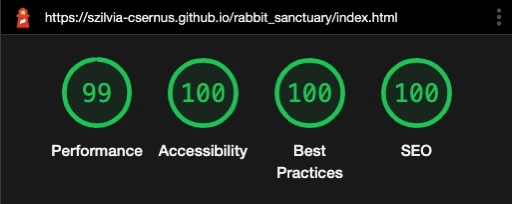
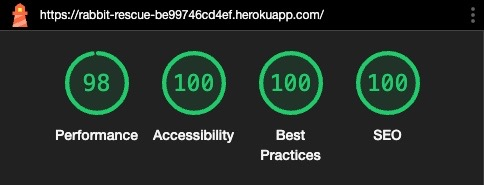
update lighthouse scores

diff --git a/TESTING.md b/TESTING.md
@@ -11,7 +11,6 @@
 I wrote 16 unit tests for testing the django `models`, `serializers` and `views`. For the testing environment, I created a separate settings file: `settings_test.py`.
 
 > To run the test in the development environment, run:
-
 > `python manage.py test --settings=rabbit_rescue_REST.settings_test`
 
 Results:
@@ -20,7 +19,7 @@ Results:
 
 ## Unit tests for the React Project
 
-I used `Vitest (Jest)` to run unit and functional test for the React Components. HTTP requests were mocked with the help of the [Mock Service Worker](https://mswjs.io/) library.
+I used `Vitest (Jest)` to run unit and functional tests for the React Components. HTTP requests were mocked with the help of the [Mock Service Worker](https://mswjs.io/) library.
 
 > To run these tests in development, run: 
 > `npm test`
@@ -54,24 +53,18 @@ Results:
 
 Performance, Accessibility, Best Practices and SEO tests were carried out with [Google Dev Tools](https://developer.chrome.com/docs/devtools/)' **Lighthouse** tool in `Incognito` mode. 
 
-> This section is going to be updated to the latest results.
 
 Results:
 
-| Device | Page | Mode | Result | 
+| Page | Mode | Result for desktop | Result for mobile |
 | :---: | :---: | :---: | :---: |
-| Mobile | About | light mode | ![Result-about-light-mobile](testing-images/lighthouse-about-light-mode-mobile.jpeg)|
-| Mobile | About | dark mode | ![Result-about-dark-mobile](testing-images/lighthouse-about-dark-mode-mobile.jpeg)|
-| Desktop | About | light mode | ![Result-about-light-desktop](testing-images/lighthouse-about-light-mode-desktop.jpeg)|
-| Desktop | About | dark mode | ![Result-about-dark-desktop](testing-images/lighthouse-about-dark-mode-desktop.jpeg)|
-| Mobile | Adopt | light mode | ![Result-adopt-light-mobile](testing-images/lighthouse-adopt-light-mode-mobile.jpeg)|
-| Mobile | Adopt | dark mode | ![Result-adopt-dark-mobile](testing-images/lighthouse-adopt-dark-mode-mobile.jpeg)|
-| Desktop | Adopt | light mode | ![Result-adopt-light-desktop](testing-images/lighthouse-adopt-light-mode-desktop.jpeg)|
-| Desktop | Adopt | dark mode | ![Result-adopt-dark-desktop](testing-images/lighthouse-about-dark-mode-desktop.jpeg)|
-| Mobile | Contact Us | light mode | ![Result-contact-light-mobile](testing-images/lighthouse-contact-light-mode-mobile.jpeg)|
-| Mobile | Contact Us | dark mode | ![Result-contact-dark-mobile](testing-images/lighthouse-contact-dark-mode-mobile.jpeg)|
-| Desktop | Contact Us | light mode | ![Result-contact-light-desktop](testing-images/lighthouse-contact-light-mode-desktop.jpeg)|
-| Desktop | Contact Us | dark mode | ![Result-contact-dark-desktop](testing-images/lighthouse-about-dark-mode-desktop.jpeg)|
+| About | light mode | ![Result-about-light-desktop](testing-images/lighthouse-about-light-mode-desktop.jpeg) | ![Result-about-light-mobile](testing-images/lighthouse-about-light-mode-mobile.jpeg)|
+| About | dark mode |![Result-about-dark-desktop](testing-images/lighthouse-about-dark-mode-desktop.jpeg)| ![Result-about-dark-mobile](testing-images/lighthouse-about-dark-mode-mobile.jpeg)|
+| Adopt | light mode | ![Result-adopt-light-desktop](testing-images/lighthouse-adopt-light-mode-desktop.jpeg) | ![Result-adopt-light-mobile](testing-images/lighthouse-adopt-light-mode-mobile.jpeg)|
+| Adopt | dark mode |![Result-adopt-dark-desktop](testing-images/lighthouse-adopt-dark-mode-desktop.jpeg)| ![Result-adopt-dark-mobile](testing-images/lighthouse-adopt-dark-mode-mobile.jpeg)|
+| Contact Us | light mode | ![Result-contact-light-desktop](testing-images/lighthouse-contact-light-mode-desktop.jpeg) | ![Result-contact-light-mobile](testing-images/lighthouse-contact-light-mode-mobile.jpeg)|
+| Contact Us | dark mode |![Result-contact-dark-desktop](testing-images/lighthouse-contact-dark-mode-desktop.jpeg)| ![Result-contact-dark-mobile](testing-images/lighthouse-contact-dark-mode-mobile.jpeg)|
+
 
 
 - - -
